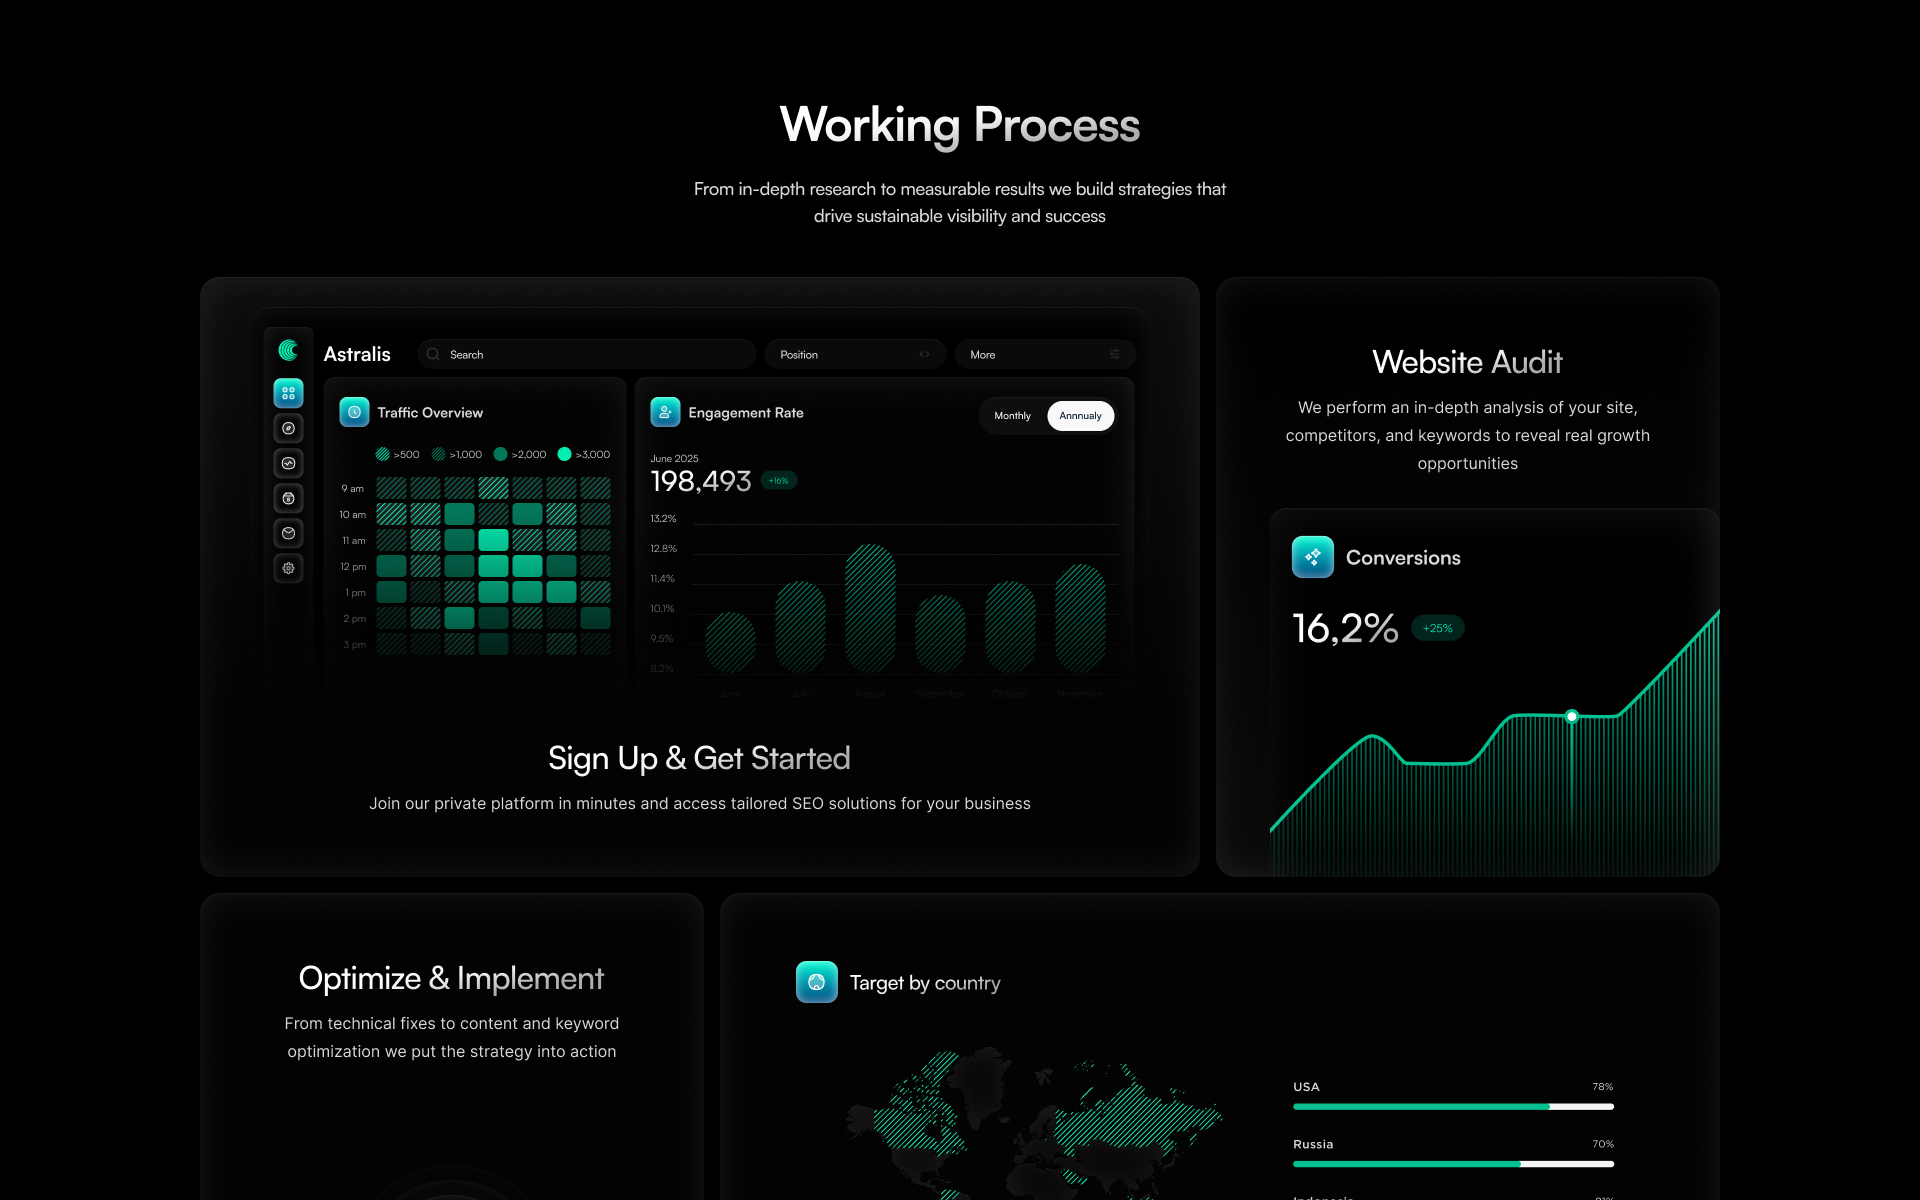
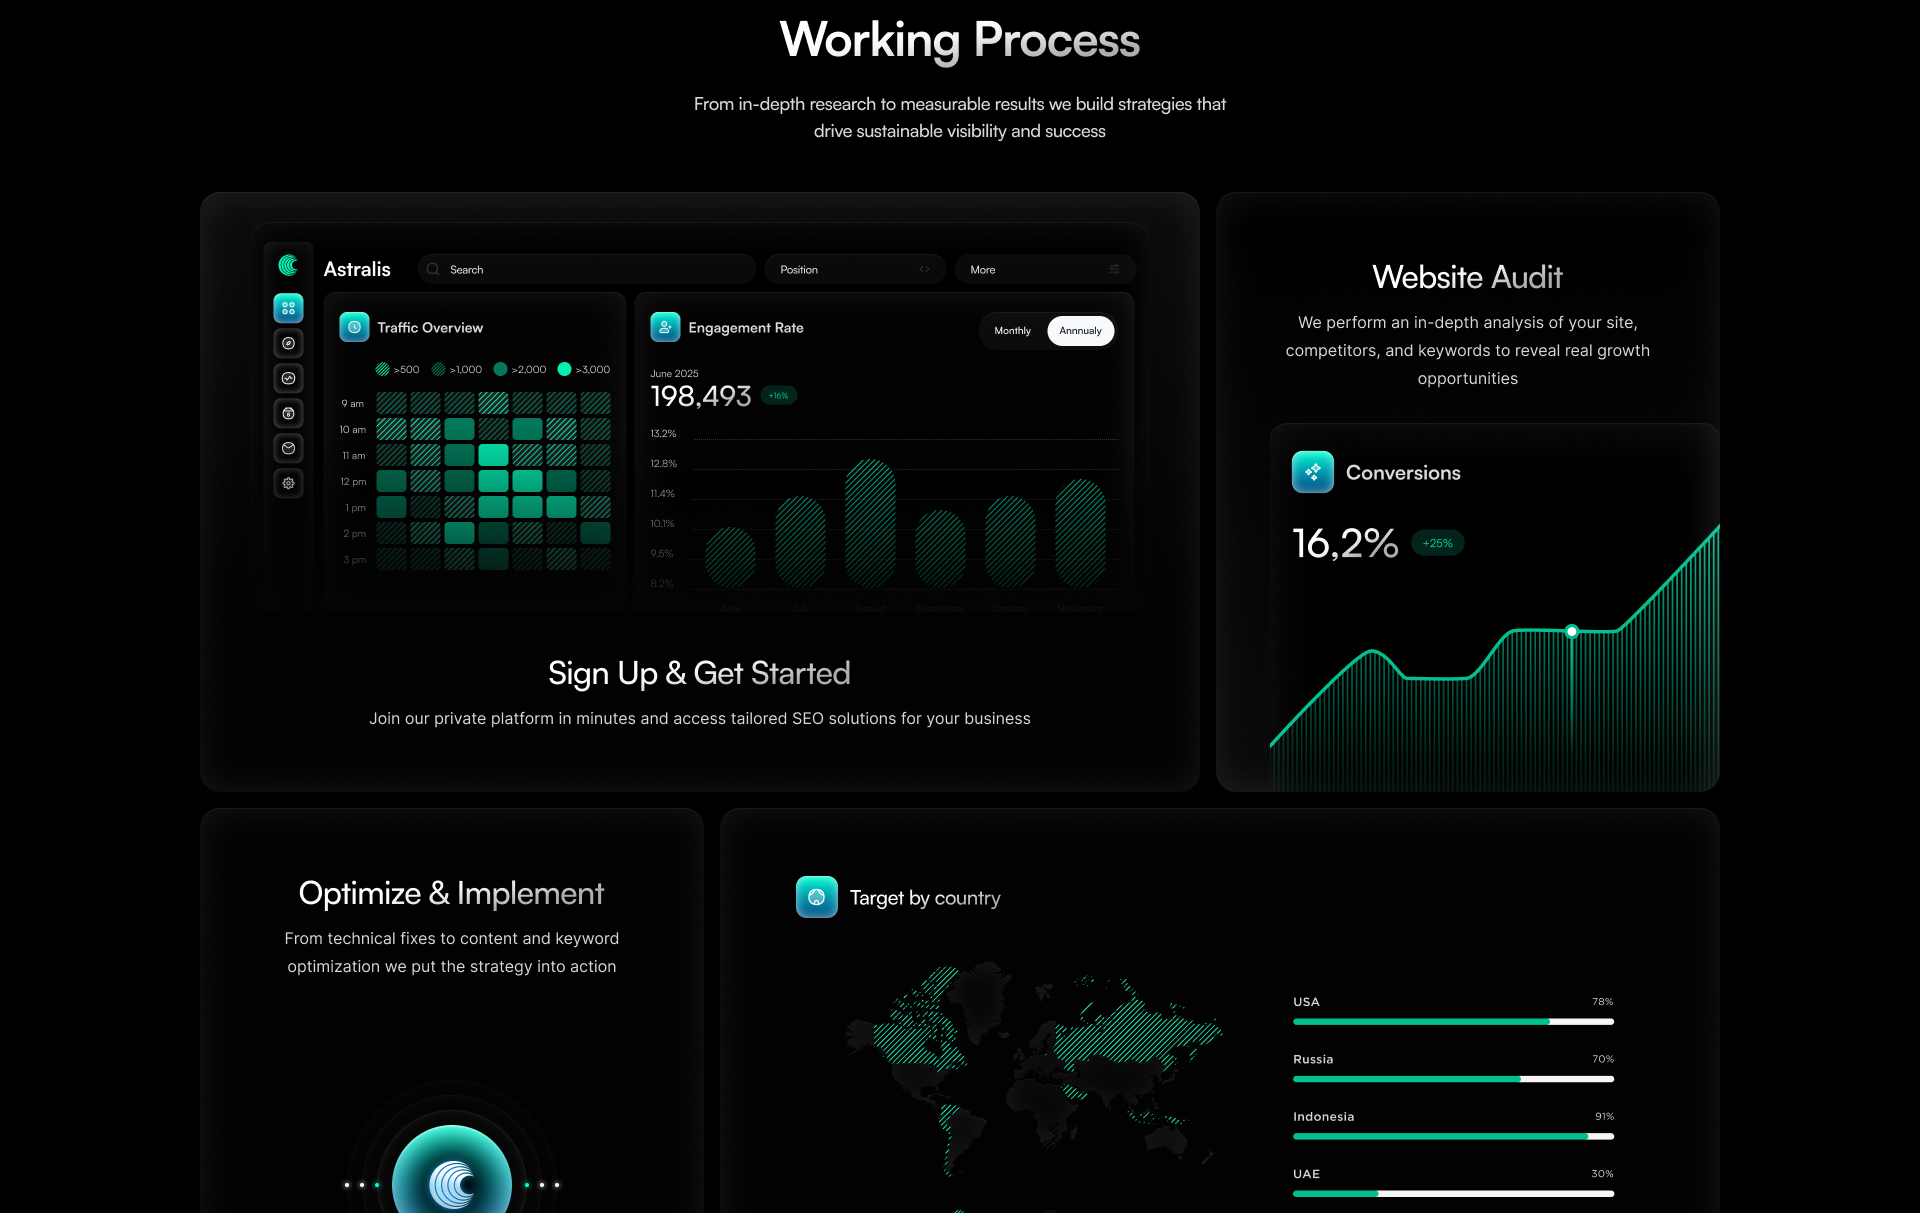
Works: Astralis в окне браузера вместо iPhone, окно уходит за правый край экрана

diff --git a/index.html b/index.html
@@ -414,9 +414,16 @@
 
   /* Карусель: слайды в ряд, лента едет на ширину слайда.
      Управление по образцу vercel.com/customers, замер в refs/vercel-carousel-controls.md */
-  .carousel__viewport { position: relative; z-index: 1; overflow: clip; }   /* слайды выше свечения полосы */
+  /* Широкие мокапы (окно браузера) уходят за правый край колонки до края экрана, как в макете.
+     Окно просмотра расширено вправо на --bleed, а слайды разведены тем же зазором, чтобы соседний слайд не выглядывал. */
+  .experience {
+    --bleed: max(var(--page-margin), calc((100vw - var(--container-xl)) / 2));
+    --slide-gap: max(var(--bleed), 224px);   /* окно 760 от колонки 664 выступает за слайд на 224: зазор не меньше, иначе край окна виден на соседнем слайде */
+  }
+  .carousel__viewport { position: relative; z-index: 1; overflow: clip; margin-right: calc(-1 * var(--bleed)); padding-right: var(--bleed); }   /* слайды выше свечения полосы */
   .carousel__track {
     display: flex;
+    gap: var(--slide-gap);
     transition: transform 1000ms cubic-bezier(0.65, 0, 0.35, 1);   /* слайд · translateX · 0 → −100% · 1000 мс · ease-in-out: мягкий разгон и мягкое торможение */
   }
   /* Кроссфейд: уходящий слайд гаснет до 30%, приходящий разгорается. Только opacity, без blur. */
@@ -588,9 +595,56 @@
     pointer-events: none;
   }
 
+  /* Browser frame: окно браузера из кита (Craftwork, Dark mode, на токенах). Все размеры в em от натуральной величины 1440:
+     1em = 1px макета, а font-size окна задаёт масштаб. На десктопе окно 760 (K 0.528), прибито к левому краю колонки
+     на 53 от верха и уходит за правый край экрана. Скриншот 1424 × 900 кладётся один к одному. */
+  .experience__media--browser { height: 608px; }
+  .browser {
+    position: absolute;
+    left: 0;
+    top: 53px;
+    font-size: calc(760px / 1440);
+    width: 1440em;
+    border-radius: 12em;
+    border: 1em solid var(--border-subtle);
+    background: linear-gradient(90deg, #000309, #081462);   /* корпус мокапа: градиент Дианы из макета */
+    overflow: hidden;
+  }
+  .browser__toolbar {
+    height: 52em;
+    padding: 0 24em;
+    display: flex;
+    align-items: center;
+    color: var(--text-secondary);
+  }
+  .browser__left, .browser__right { flex: 1 1 0; display: flex; align-items: center; }
+  .browser__left { gap: 40em; }
+  .browser__right { gap: 16em; justify-content: flex-end; }
+  .browser__dots { display: flex; gap: 8em; }
+  .browser__dots i { width: 12em; height: 12em; border-radius: 50%; background: var(--border-default); }
+  .browser__nav { display: flex; gap: 16em; }
+  .browser__icon { width: 20em; height: 20em; fill: currentColor; display: block; }
+  .browser__icon--sm { width: 14em; height: 14em; }
+  .browser__icon--dim { fill: var(--border-default); }
+  .browser__address {
+    width: 256em;
+    height: 32em;
+    padding: 0 8em;
+    border-radius: 8em;
+    background: rgb(245 248 255 / 0.1);   /* Button/secondary, как в ките */
+    display: flex;
+    align-items: center;
+    justify-content: space-between;
+  }
+  .browser__address span { font-size: 12em; font-weight: 500; line-height: 1; }   /* Label/sm 12 Medium, в масштабе окна */
+  .browser__screen { padding: 0 8em 8em; }
+  .browser__screen img { display: block; width: 100%; height: auto; aspect-ratio: 1424 / 900; object-fit: cover; border-radius: 6em; }
+
   @media (max-width: 1100px) {
     .experience__slide { flex-direction: column; align-items: stretch; }
     .experience__text { flex-basis: auto; }
+    .experience__media--browser { height: auto; }
+    .browser { position: relative; top: 0; font-size: calc((100vw - 2 * var(--page-margin)) / 1440); }
   }
   @media (max-width: 768px) {
     .experience { padding-block: var(--space-48); }
@@ -1218,10 +1272,20 @@
               </a>
             </div>
           </div>
-          <div class="experience__media">
-            <div class="iphone">
-              <div class="iphone__screen">PRODUCT SCREENSHOT</div>
-              <img class="iphone__bezel" src="assets/iphone-bezel.png" alt="" width="297" height="608">
+          <div class="experience__media experience__media--browser">
+            <div class="browser">
+              <div class="browser__toolbar" aria-hidden="true">
+                <div class="browser__left">
+                  <span class="browser__dots"><i></i><i></i><i></i></span>
+                  <svg class="browser__icon" viewBox="0 0 20 20" aria-hidden="true"><path d="M3.49219 17.0857H16.5078C18.149 17.0857 19 16.2347 19 14.6163V5.3694C19 3.74339 18.149 2.9 16.5078 2.9H3.49219C1.85099 2.9 1 3.74339 1 5.3694V14.6163C1 16.2423 1.85099 17.0857 3.49219 17.0857ZM3.58337 15.5965C2.87674 15.5965 2.48924 15.2242 2.48924 14.4872V5.49097C2.48924 4.75395 2.87674 4.38924 3.58337 4.38924H7.04052V15.5965H3.58337ZM16.4166 4.38924C17.1157 4.38924 17.5108 4.75395 17.5108 5.49097V14.4872C17.5108 15.2242 17.1157 15.5965 16.4166 15.5965H8.45378V4.38924H16.4166ZM5.55129 7.17016C5.81722 7.17016 6.04517 6.94221 6.04517 6.68388C6.04517 6.42554 5.81722 6.20519 5.55129 6.20519H3.99367C3.72014 6.20519 3.49219 6.42554 3.49219 6.68388C3.49219 6.94221 3.72014 7.17016 3.99367 7.17016H5.55129ZM5.55129 9.20646C5.81722 9.20646 6.04517 8.97851 6.04517 8.72018C6.04517 8.46184 5.81722 8.24149 5.55129 8.24149H3.99367C3.72014 8.24149 3.49219 8.46184 3.49219 8.72018C3.49219 8.97851 3.72014 9.20646 3.99367 9.20646H5.55129ZM5.55129 11.2352C5.81722 11.2352 6.04517 11.0148 6.04517 10.7565C6.04517 10.4981 5.81722 10.2778 5.55129 10.2778H3.99367C3.72014 10.2778 3.49219 10.4981 3.49219 10.7565C3.49219 11.0148 3.72014 11.2352 3.99367 11.2352H5.55129Z"/></svg>
+                  <span class="browser__nav"><svg class="browser__icon" viewBox="0 0 20 20" aria-hidden="true"><path d="M2.6 10.3516C2.6 10.5859 2.70156 10.8125 2.88125 10.9844L8.02969 16.1328C8.21719 16.3125 8.42812 16.3984 8.63906 16.3984C9.13125 16.3984 9.48281 16.0469 9.48281 15.5781C9.48281 15.3359 9.38906 15.125 9.23281 14.9766L7.48281 13.2031L5.17031 11.0938L6.99844 11.2031H16.4984C17.0062 11.2031 17.3656 10.8516 17.3656 10.3516C17.3656 9.84375 17.0062 9.5 16.4984 9.5H6.99844L5.17812 9.60938L7.48281 7.5L9.23281 5.72656C9.38906 5.57031 9.48281 5.35938 9.48281 5.11719C9.48281 4.64844 9.13125 4.30469 8.63906 4.30469C8.42812 4.30469 8.21719 4.38281 8.01406 4.57812L2.88125 9.71875C2.70156 9.88281 2.6 10.1172 2.6 10.3516Z"/></svg><svg class="browser__icon browser__icon--dim" viewBox="0 0 20 20" aria-hidden="true"><path d="M17.3656 10.3516C17.3656 10.1172 17.2641 9.88281 17.0844 9.71875L11.9437 4.57812C11.7484 4.38281 11.5375 4.30469 11.3187 4.30469C10.8344 4.30469 10.4828 4.64844 10.4828 5.11719C10.4828 5.35938 10.5766 5.57031 10.7328 5.72656L12.4828 7.5L14.7797 9.60938L12.9672 9.5H3.46719C2.95156 9.5 2.6 9.84375 2.6 10.3516C2.6 10.8516 2.95156 11.2031 3.46719 11.2031H12.9672L14.7875 11.0938L12.4828 13.2031L10.7328 14.9766C10.5766 15.125 10.4828 15.3359 10.4828 15.5781C10.4828 16.0469 10.8344 16.3984 11.3187 16.3984C11.5375 16.3984 11.7406 16.3125 11.9281 16.1328L17.0844 10.9844C17.2641 10.8125 17.3656 10.5859 17.3656 10.3516Z"/></svg><svg class="browser__icon" viewBox="0 0 20 20" aria-hidden="true"><path d="M3 10.9141C3 14.7891 6.10938 17.9062 9.97656 17.9062C13.8438 17.9062 16.9531 14.7891 16.9531 10.9141C16.9531 10.4531 16.6328 10.125 16.1719 10.125C15.7266 10.125 15.4297 10.4531 15.4297 10.9141C15.4297 13.9453 13 16.375 9.97656 16.375C6.95312 16.375 4.53125 13.9453 4.53125 10.9141C4.53125 7.86719 6.9375 5.45312 9.95312 5.45312C10.4688 5.45312 10.9453 5.49219 11.3438 5.57812L9.21875 7.6875C9.07812 7.83594 9.00781 8 9.00781 8.20312C9.00781 8.63281 9.32812 8.96094 9.75 8.96094C9.96875 8.96094 10.1484 8.89062 10.2812 8.75L13.4922 5.51562C13.6562 5.35156 13.7344 5.16406 13.7344 4.95312C13.7344 4.75 13.6484 4.54688 13.4922 4.39062L10.2812 1.13281C10.1484 0.984375 9.96875 0.90625 9.75 0.90625C9.32812 0.90625 9.00781 1.25 9.00781 1.67188C9.00781 1.875 9.07812 2.05469 9.21094 2.19531L11.1016 4.0625C10.7578 3.99219 10.3594 3.95312 9.95312 3.95312C6.09375 3.95312 3 7.04688 3 10.9141Z"/></svg></span>
+                </div>
+                <div class="browser__address"><svg class="browser__icon browser__icon--sm" viewBox="0 0 14 14" aria-hidden="true"><path d="M4.48096 12.332H9.51367C10.3301 12.332 10.7544 11.897 10.7544 11.0161V7.20801C10.7544 6.43457 10.4214 6.00488 9.77686 5.91895V4.64062C9.77686 2.65869 8.46631 1.63281 7 1.63281C5.53369 1.63281 4.22314 2.65869 4.22314 4.64062V5.91895C3.57861 6.00488 3.24023 6.43457 3.24023 7.20801V11.0161C3.24023 11.897 3.66455 12.332 4.48096 12.332ZM5.22754 4.54395C5.22754 3.28174 6.03857 2.59424 7 2.59424C7.95605 2.59424 8.77246 3.28174 8.77246 4.54395V5.89746H5.22754V4.54395Z"/></svg><span>astralis.io</span><svg class="browser__icon browser__icon--sm" viewBox="0 0 14 14" aria-hidden="true"><path d="M6.63956 9.37881L7.53018 8.48232C6.82706 8.41787 6.33487 8.19521 5.97159 7.83193C4.98135 6.8417 4.98135 5.43545 5.96573 4.45107L7.91104 2.50576C8.90128 1.51553 10.3017 1.51553 11.2919 2.50576C12.288 3.50771 12.2821 4.90225 11.2978 5.88662L10.2899 6.89443C10.4774 7.32217 10.536 7.84365 10.4364 8.29482L12.1181 6.61904C13.5595 5.1835 13.5653 3.14443 12.1122 1.69131C10.6591 0.232324 8.62003 0.244043 7.18448 1.67959L5.14542 3.72451C3.70987 5.16006 3.69815 7.19912 5.15128 8.65225C5.49698 8.99209 5.95987 9.2499 6.63956 9.37881ZM7.15518 4.43936L6.27042 5.33584C6.96768 5.40029 7.46573 5.62881 7.82315 5.98623C8.81924 6.98232 8.81924 8.38271 7.82901 9.36709L5.8837 11.3124C4.89346 12.3026 3.49893 12.3026 2.50284 11.3124C1.50674 10.3163 1.5126 8.91592 2.50284 7.93154L3.50479 6.92373C3.32315 6.496 3.2587 5.98037 3.35831 5.52334L1.68253 7.19912C0.241119 8.63467 0.23526 10.6796 1.68839 12.1327C3.14151 13.5858 5.18057 13.5741 6.61612 12.1386L8.64932 10.0995C10.0907 8.65811 10.0966 6.61904 8.64346 5.17178C8.30362 4.82607 7.84073 4.56826 7.15518 4.43936Z"/></svg></div>
+                <div class="browser__right"><svg class="browser__icon" viewBox="0 0 20 20" aria-hidden="true"><path d="M10 18.4736C14.6318 18.4736 18.4668 14.6304 18.4668 10.0068C18.4668 5.375 14.6235 1.54004 9.9917 1.54004C5.36816 1.54004 1.5332 5.375 1.5332 10.0068C1.5332 14.6304 5.37646 18.4736 10 18.4736ZM10 17.0625C6.08203 17.0625 2.95264 13.9248 2.95264 10.0068C2.95264 6.08887 6.07373 2.95117 9.9917 2.95117C13.9097 2.95117 17.0557 6.08887 17.0557 10.0068C17.0557 13.9248 13.918 17.0625 10 17.0625ZM10 5.78174C9.64307 5.78174 9.37744 6.03906 9.37744 6.4043V10.5547L9.44385 12.3062L8.61377 11.3101L7.62598 10.314C7.50977 10.1978 7.36035 10.1313 7.18604 10.1313C6.8457 10.1313 6.58838 10.3887 6.58838 10.729C6.58838 10.9033 6.63818 11.0527 6.74609 11.1606L9.51855 13.9165C9.68457 14.0825 9.82568 14.1572 10 14.1572C10.1826 14.1572 10.332 14.0742 10.4897 13.9165L13.2539 11.1606C13.3618 11.0527 13.4282 10.9033 13.4282 10.729C13.4282 10.3887 13.1626 10.1313 12.8223 10.1313C12.6396 10.1313 12.4902 10.1895 12.3823 10.314L11.4028 11.3101L10.5562 12.3145L10.6226 10.5547V6.4043C10.6226 6.03906 10.3652 5.78174 10 5.78174Z"/></svg><svg class="browser__icon" viewBox="0 0 20 20" aria-hidden="true"><path d="M3.15186 10.0068C3.15186 10.4136 3.49219 10.7456 3.89062 10.7456H9.26123V16.1162C9.26123 16.5146 9.59326 16.855 10 16.855C10.4067 16.855 10.7471 16.5146 10.7471 16.1162V10.7456H16.1094C16.5078 10.7456 16.8481 10.4136 16.8481 10.0068C16.8481 9.6001 16.5078 9.25977 16.1094 9.25977H10.7471V3.89746C10.7471 3.49902 10.4067 3.15869 10 3.15869C9.59326 3.15869 9.26123 3.49902 9.26123 3.89746V9.25977H3.89062C3.49219 9.25977 3.15186 9.6001 3.15186 10.0068Z"/></svg></div>
+              </div>
+              <div class="browser__screen">
+                <img src="assets/astralis-browser.png" alt="Astralis: Working Process section with the SEO dashboard, conversions and target by country" width="1920" height="1213" loading="lazy">
+              </div>
             </div>
           </div>
           </div>
@@ -1593,13 +1657,13 @@
     const mark = (i) => all.forEach((el, k) => el.classList.toggle("is-active", k === i));
     const jump = (i) => {                       // перестановка без анимации, и сдвиг, и прозрачность
       track.classList.add("no-anim");
-      track.style.transform = `translateX(${-i * 100}%)`;
+      track.style.transform = `translateX(calc(${-i} * (100% + var(--slide-gap))))`;
       mark(i);
       track.offsetHeight;                       // применить сразу
       track.classList.remove("no-anim");
     };
     const render = () => {
-      track.style.transform = `translateX(${-index * 100}%)`;
+      track.style.transform = `translateX(calc(${-index} * (100% + var(--slide-gap))))`;
       thumb.style.transform = `translateX(${(index % n) * 100}%)`;
       mark(index);
       slides.forEach((s, i) => { s.inert = i !== index % n; });   // скрытые слайды не ловят Tab
